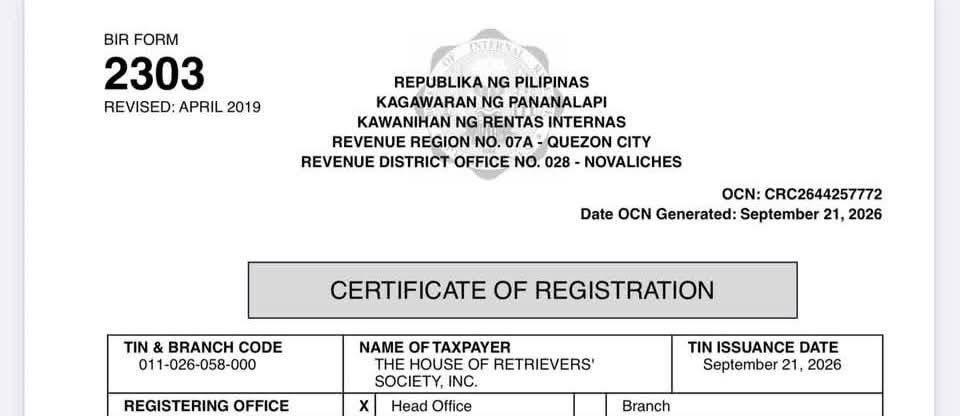
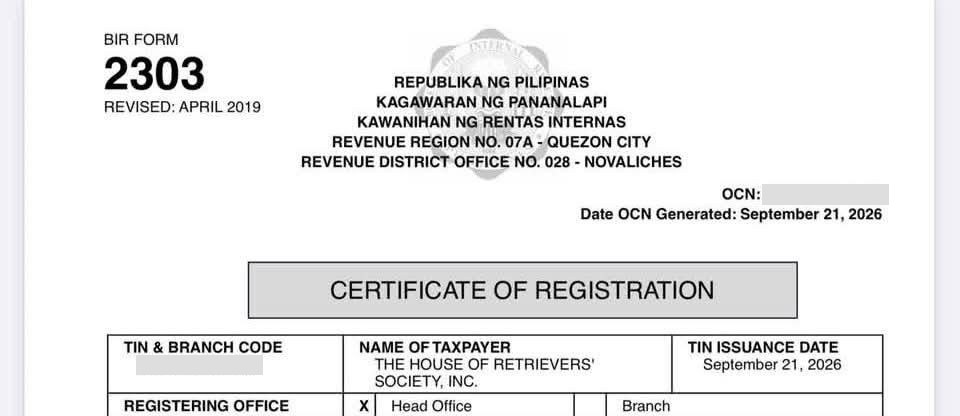
fix(site): full-number Copy, returning header, Coming up card, phone event page
- Copy puts the full payment number on the clipboard while the screen keeps
  it partly hidden; the payment step gets Copy buttons too.
- The header comes back pinned on scroll-up (home and events hosts); Join the
  pack is the gold pill, Support the pack a text link.
- A Coming up card under the home hero links the next event.
- Event pages lead with title, date and venue before the poster on phones.
- The SEC timeline photo has its TIN and OCN covered.

Claude-Session: https://claude.ai/code/session_0193V5bBPyj3yGbmkqaxNmq4

Changed region(s): [[0.7812, 0.4375, 0.9375, 0.5], [0.125, 0.8438, 0.2812, 0.9062]]

diff --git a/app/globals.css b/app/globals.css
@@ -721,7 +721,6 @@ main:focus { outline: none; }
 .live-row span { display: flex; align-items: center; gap: 10px; font-size: 15px; font-weight: 600; }
 .copy-button { min-height: 32px; padding: 4px 12px; border: 1px solid rgba(17,17,17,.3); border-radius: 999px; background: white; font-size: 12px; font-weight: 700; color: var(--ink); }
 .live-updated { margin-top: 10px !important; grid-column: auto !important; }
-.live-hint { margin: 6px 0 0 !important; font-size: 13px; color: var(--muted-on-light, #5c5f57); }
 .live-save-qr { display: inline-flex; align-items: center; justify-self: start; width: fit-content; min-height: 36px; margin-top: 8px; text-decoration: none; }
 .live-empty { grid-template-columns: 1fr; }
 .event-rsvp { align-self: flex-start; }
@@ -1271,7 +1270,10 @@ body:has(.journey.is-horizontal) { overflow-x: clip; }
 @media (prefers-reduced-motion: reduce) { .event-rsvp-bar { transition: none; } }
 
 @container eventpage (min-width: 960px) {
-  .event-detail-grid { grid-template-columns: minmax(0, .88fr) minmax(0, 1fr); gap: 64px; align-items: start; }
+  .event-detail-grid { grid-template-columns: minmax(0, .88fr) minmax(0, 1fr); grid-template-areas: "media head" "media body"; grid-template-rows: auto 1fr; gap: 16px 64px; align-items: start; }
+  .event-detail-head { grid-area: head; }
+  .event-detail-media { grid-area: media; }
+  .event-detail-body { grid-area: body; }
   /* The poster stays beside the details as they scroll. */
   .event-detail-media { position: sticky; top: 24px; }
   .event-media-prev, .event-media-next { display: grid; }
@@ -1413,6 +1415,8 @@ body:has(.journey.is-horizontal) { overflow-x: clip; }
 .pay-link, .pass-link-button { justify-self: center; min-height: 44px; display: inline-flex; align-items: center; border: 0; background: none; color: var(--gold-on-light); font-weight: 700; font-size: 14px; text-decoration: underline; text-underline-offset: 3px; cursor: pointer; padding: 0; }
 .pay-form { gap: 12px; }
 .pay-form select { width: 100%; border: 1px solid var(--line); background: white; padding: 14px 15px; color: var(--ink); font: inherit; text-transform: none; letter-spacing: 0; }
+.pay-copy { display: flex; flex-wrap: wrap; gap: 8px; justify-content: center; }
+.pay-copy .copy-button { min-height: 44px; padding: 6px 14px; font-size: 13px; }
 .pay-hint, .pay-file { color: var(--muted-on-light); font-size: 12px; font-weight: 500; text-transform: none; letter-spacing: 0; }
 .pay-file { color: #2f5d3a; font-weight: 700; }
 .pay-upload input[type="file"] { padding: 12px 15px; font-size: 13px; border-style: dashed; }
@@ -2174,3 +2178,60 @@ main :is(.journey-story, .pillar-copy p, .join-grid p, .instagram-fallback p, .p
 }
 .not-found-actions { display: flex; flex-wrap: wrap; gap: 12px; margin-top: 32px; }
 .not-found-page .privacy-intro { border-bottom: 0; }
+
+/* ---------- Phone event page first screen (audit #6, 23 Nov 2026) ----------
+   Title, date and venue lead; the 4:5 poster follows, capped so the price card
+   is close behind it. */
+.event-detail-head { display: grid; gap: 10px; min-width: 0; }
+.event-detail-head .event-badges, .event-detail-head .event-category { margin: 0; }
+.event-detail-head .event-category { letter-spacing: .12em; }
+.event-head-when { margin: 2px 0 0; display: grid; gap: 6px; font-size: 16px; font-weight: 500; color: var(--ink); }
+.event-head-when span { display: inline-flex; align-items: flex-start; gap: 8px; }
+.event-head-when svg { flex: none; margin-top: 3px; color: var(--gold-on-light); }
+/* From 960 px the facts beside the poster say when and where in full. */
+@container eventpage (min-width: 960px) { .event-head-when { display: none; } }
+@container eventpage (max-width: 959px) {
+  .event-detail-wrap .event-detail-grid { gap: 20px; }
+  .event-detail-media .event-media { width: min(100%, calc(64svh * 4 / 5)); margin-inline: auto; }
+  /* The blurred band ends under the All events button, so the title sits on the light page. */
+  .event-detail-backdrop { height: 190px; }
+}
+
+/* ---------- Header that returns on scroll-up; Join leads (audit #3 and #5, 23 Nov 2026) ----------
+   useHeaderReturn adds .is-stuck once the hero has scrolled away and .is-shown
+   while the visitor scrolls up. Join the pack is the gold pill (the site's main
+   action); Support the pack is the quieter text link beside it. */
+.site-header.is-stuck { position: fixed; background: rgba(13,13,13,.94); border-bottom-color: rgba(255,255,255,.1); box-shadow: 0 10px 30px -18px rgba(0,0,0,.6); transform: translateY(-105%); transition: transform .28s cubic-bezier(.2,.7,.2,1); }
+.site-header.is-stuck.is-shown, .site-header.is-stuck:focus-within { transform: none; }
+@supports (backdrop-filter: blur(1px)) { .site-header.is-stuck { background: rgba(13,13,13,.86); backdrop-filter: blur(12px); } }
+.nav .nav-cta { min-height: 44px; padding: 0 20px; border: 0; border-radius: 999px; background: var(--gold); color: var(--ink); font-size: 14px; font-weight: 700; }
+.nav .nav-cta:hover { background: #b8944f; }
+.nav .nav-support { min-height: 44px; padding: 0; border: 0; border-radius: 0; background: transparent; color: white; font-size: 14px; font-weight: 500; opacity: .82; text-decoration: underline; text-decoration-color: rgba(255,255,255,.4); text-underline-offset: 6px; }
+.nav .nav-support:hover { opacity: 1; text-decoration-color: currentColor; }
+@media (max-width: 900px) {
+  .nav .nav-cta { order: -1; align-self: stretch; justify-content: center; min-height: 52px; font-size: 16px; }
+  .nav .nav-support { font-size: 16px; }
+}
+
+/* ---------- Coming up, under the home hero (audit #3, 23 Nov 2026) ---------- */
+.coming-up { background: var(--ink); color: white; padding: 20px clamp(24px, 5vw, 76px) 28px; }
+.coming-up-inner { max-width: 1180px; margin: 0 auto; display: flex; align-items: center; gap: 16px 28px; flex-wrap: wrap; }
+.coming-up-card { flex: 1 1 520px; min-width: 0; display: grid; grid-template-columns: auto minmax(0, 1fr) auto; align-items: center; gap: 18px; padding: 12px 20px 12px 12px; border: 1px solid rgba(255,255,255,.16); border-radius: 18px; background: rgba(255,255,255,.05); color: inherit; text-decoration: none; transition: background .2s, border-color .2s; }
+.coming-up-card:hover { background: rgba(255,255,255,.09); border-color: rgba(167,132,64,.7); }
+.coming-up-card:focus-visible { outline: 3px solid var(--gold); outline-offset: 3px; }
+.coming-up-card img { width: 72px; height: 90px; object-fit: cover; border-radius: 10px; background: #2a2926; }
+.coming-up-body { display: grid; gap: 4px; min-width: 0; }
+.coming-up-label { font-size: 12px; font-weight: 700; letter-spacing: .14em; text-transform: uppercase; color: var(--gold); }
+.coming-up-body strong { font: 400 clamp(22px, 2.4vw, 28px)/1.15 "DM Serif Display", serif; text-wrap: balance; }
+.coming-up-facts { display: flex; flex-wrap: wrap; gap: 4px 18px; font-size: 14px; color: rgba(255,255,255,.8); }
+.coming-up-facts > span { display: inline-flex; align-items: center; gap: 6px; }
+.coming-up-facts svg { color: var(--gold); }
+.coming-up-price { font-weight: 700; color: white; }
+.coming-up-go { display: inline-flex; align-items: center; gap: 8px; min-height: 44px; padding: 0 18px; border-radius: 999px; background: var(--gold); color: var(--ink); font-size: 14px; font-weight: 700; white-space: nowrap; }
+.coming-up-all { display: inline-flex; align-items: center; gap: 6px; min-height: 44px; color: white; font-size: 14px; font-weight: 600; text-decoration: underline; text-decoration-color: rgba(255,255,255,.4); text-underline-offset: 5px; }
+.coming-up-all:hover { text-decoration-color: currentColor; }
+@media (max-width: 680px) {
+  .coming-up-card { grid-template-columns: auto minmax(0, 1fr); padding: 12px; }
+  .coming-up-card img { width: 64px; height: 80px; }
+  .coming-up-go { grid-column: 1 / -1; justify-content: center; }
+}

diff --git a/app/components/EventsView.jsx b/app/components/EventsView.jsx
@@ -5,6 +5,7 @@ import PhotoCredits from "./PhotoCredits";
 import Icon from "./Icon";
 import { socialLinks } from "../lib/socials.mjs";
 import LogoMoments from "./LogoMoments";
+import useHeaderReturn from "./useHeaderReturn";
 import Footer from "./Footer";
 import { initialsOf, speakersTitle } from "../lib/eventSpeakers.mjs";
 import { partnerGroups, sponsorGroups } from "../lib/eventBrands.mjs";
@@ -633,15 +634,24 @@ export function EventDetail({ event: given, past, onRsvp, base, photos = [] }) {
     <article className="event-detail" aria-labelledby="event-title">
       <a className="event-back" href={base ? `${base}` : "/"}><Icon name="arrowLeft" /> All events</a>
       <div className="event-detail-grid">
-        <div className="event-detail-media">
-          {media.length > 0 && <EventMedia media={media} title={event.title} />}
-        </div>
-        <div className="event-detail-body">
+        {/* Title first in the page order, so a phone opens on what the event is,
+            when and where, with the poster under it (audit #6, 23 Nov 2026).
+            From 960 px the grid puts it beside the poster, above the facts. */}
+        <header className="event-detail-head">
           <p className="event-badges">
             <span className={`event-status status-${past ? "past" : event.status}`}>{past ? "Past event" : STATUS_LABELS[event.status]}</span>
           </p>
           {labels && <p className="event-category">{labels}</p>}
           <h1 id="event-title">{event.title}</h1>
+          <p className="event-head-when">
+            <span><Icon name="calendar" size={15} /> {formatWhen(event)}</span>
+            {(event.venue || event.city) && <span><Icon name="pin" size={15} /> {[event.venue, event.city].filter(Boolean).join(", ")}</span>}
+          </p>
+        </header>
+        <div className="event-detail-media">
+          {media.length > 0 && <EventMedia media={media} title={event.title} />}
+        </div>
+        <div className="event-detail-body">
           <DetailFacts event={event} past={past} />
           {!past && (event.cost || event.pricePending || canRsvp) && (
             <div className="event-action-card" ref={card}>
@@ -769,6 +779,7 @@ export default function EventsView({ upcoming, past, focus = null }) {
   const [joinOpen, setJoinOpen] = useState(false);
   const [interest, setInterest] = useState("Member");
   const [rsvpEvent, setRsvpEvent] = useState(null);
+  const headerClass = useHeaderReturn(menuOpen);
 
   useEffect(() => {
     document.body.style.overflow = joinOpen || rsvpEvent ? "hidden" : "";
@@ -796,7 +807,7 @@ export default function EventsView({ upcoming, past, focus = null }) {
     <>
       <a href="#main" className="skip-link">Skip to content</a>
 
-      <header className="site-header">
+      <header className={headerClass}>
         <a href={HOME_URL} className="brand" aria-label="House of Retrievers home">
           <span className="brand-logo-frame">
             <LogoMoments className="brand-logo" tone="dark" priority />

diff --git a/app/components/SupportModal.jsx b/app/components/SupportModal.jsx
@@ -1,27 +1,12 @@
 import { useEffect, useRef, useState } from "react";
 import Icon from "./Icon";
-import { isPartlyHidden } from "../lib/partlyHidden.mjs";
+import CopyButton from "./CopyButton";
 
 function formatUpdated(iso) {
   if (!iso) return "";
   return new Intl.DateTimeFormat("en-PH", { day: "numeric", month: "short", year: "numeric", timeZone: "Asia/Manila" }).format(new Date(iso));
 }
 
-function CopyButton({ value, label }) {
-  const [copied, setCopied] = useState(false);
-  return (
-    <button
-      type="button"
-      className="copy-button"
-      onClick={async () => {
-        try { await navigator.clipboard.writeText(value.replace(/\s+/g, "")); setCopied(true); setTimeout(() => setCopied(false), 2000); } catch { /* clipboard blocked: the value is on screen to copy by hand */ }
-      }}
-      aria-label={`Copy ${label}`}
-    >
-      {copied ? "Copied" : "Copy"}
-    </button>
-  );
-}
 
 /** Donation details an Owner approved in the admin. */
 function LiveDetails({ methods }) {
@@ -37,8 +22,8 @@ function LiveDetails({ methods }) {
   const d = method.details;
   const rows = [
     d.bankName && ["Bank", d.bankName],
-    d.number && ["Number", d.number],
-    d.accountNumber && ["Account number", d.accountNumber],
+    d.number && ["Number", d.number, method.copy?.number],
+    d.accountNumber && ["Account number", d.accountNumber, method.copy?.accountNumber],
     d.accountName && ["Account name", d.accountName],
   ].filter(Boolean);
   return (
@@ -52,10 +37,9 @@ function LiveDetails({ methods }) {
         {method.qrImage && <img className="live-qr" src={method.qrImage} alt={`${method.label} QR code for House of Retrievers`} width="160" height="160" />}
         <div className="account-details">
           <strong>{method.label}</strong>
-          {rows.map(([label, value]) => (
-            <div key={label} className="live-row"><small>{label}</small><span>{value}{label !== "Account name" && label !== "Bank" && !isPartlyHidden(value) && <CopyButton value={value} label={label.toLowerCase()} />}</span></div>
+          {rows.map(([label, value, copy]) => (
+            <div key={label} className="live-row"><small>{label}</small><span>{value}{label !== "Account name" && label !== "Bank" && <CopyButton value={copy || value} label={label.toLowerCase()} />}</span></div>
           ))}
-          {method.qrImage && rows.some(([, value]) => isPartlyHidden(value)) && <p className="live-hint">On your phone? Save the QR, then upload it in your {method.label} app.</p>}
           {method.qrImage && <a className="copy-button live-save-qr" href={method.qrImage} download={`HOR-${method.key}-QR.png`}>Save QR image</a>}
           {method.updatedAt && <p className="live-updated">Details updated {formatUpdated(method.updatedAt)}. Always check the account name before you send.</p>}
         </div>

diff --git a/app/components/ComingUp.jsx b/app/components/ComingUp.jsx
@@ -1,0 +1,36 @@
+import Icon from "./Icon";
+import { EVENTS_URL } from "../lib/eventsHost.mjs";
+import { formatWhen } from "../lib/share.mjs";
+
+/**
+ * The next event, right under the hero (audit #3, 23 Nov 2026). Before this the
+ * nearest open event was about 6,000 px down, at the end of the timeline.
+ * Shown only when there is an upcoming published event; the whole card is one
+ * link to its page on the events site, plus a link to the rest.
+ */
+export default function ComingUp({ event, more = 0 }) {
+  if (!event) return null;
+  const href = `${EVENTS_URL}/${event.slug}`;
+  const where = [event.venue, event.city].filter(Boolean).join(", ");
+  const price = event.pricePending ? "Price revealed when RSVPs open" : event.cost;
+  return (
+    <section className="coming-up" aria-labelledby="coming-up-title">
+      <div className="coming-up-inner">
+        <a className="coming-up-card" href={href}>
+          {event.image && <img src={event.image} alt="" width="96" height="120" loading="lazy" />}
+          <span className="coming-up-body">
+            <span className="coming-up-label" id="coming-up-title">Coming up</span>
+            <strong>{event.title}</strong>
+            <span className="coming-up-facts">
+              <span><Icon name="calendar" size={14} /> {formatWhen(event)}</span>
+              {where && <span><Icon name="pin" size={14} /> {where}</span>}
+              {price && <span className="coming-up-price">{price}</span>}
+            </span>
+          </span>
+          <span className="coming-up-go" aria-hidden="true">See the event <Icon name="arrow" size={16} /></span>
+        </a>
+        <a className="coming-up-all" href={EVENTS_URL}>{more > 0 ? `All events · ${more + 1} coming up` : "All events"} <Icon name="arrow" size={14} /></a>
+      </div>
+    </section>
+  );
+}

diff --git a/app/components/PayStep.jsx b/app/components/PayStep.jsx
@@ -5,7 +5,7 @@ import { resizeImage } from "../lib/resizeImage";
 import { PAY_METHODS, READABLE, parsePeso, ticketLine } from "../lib/eventPayments.mjs";
 import { PRIVACY_URL } from "../lib/siteSeo.mjs";
 import Icon from "./Icon";
-import { isPartlyHidden } from "../lib/partlyHidden.mjs";
+import CopyButton from "./CopyButton";
 
 const peso = (n) => `₱${Number(n).toLocaleString("en-PH")}`;
 
@@ -121,7 +121,12 @@ export default function PayStep({ code, ticketLabel, amount, methods: given, rea
               {shown.qrImage && <img src={shown.qrImage} alt={`${shown.label} QR code for ${shown.details.accountName || "House of Retrievers"}`} width="220" height="220" />}
               <strong>{shown.details.accountName}</strong>
               <span>{[shown.label, shown.details.number, shown.details.bankName, shown.details.accountNumber].filter(Boolean).join(" · ")}</span>
-              {shown.qrImage && (isPartlyHidden(shown.details.number) || isPartlyHidden(shown.details.accountNumber)) && <span className="pay-hint">On your phone? Save the QR, then upload it in your {shown.label} app.</span>}
+              {(shown.details.number || shown.details.accountNumber) && (
+                <span className="pay-copy">
+                  {shown.details.number && <CopyButton value={shown.copy?.number || shown.details.number} label={`${shown.label} number`} text="Copy number" />}
+                  {shown.details.accountNumber && <CopyButton value={shown.copy?.accountNumber || shown.details.accountNumber} label="account number" text="Copy account number" />}
+                </span>
+              )}
               {shown.qrImage && <a className="pay-link" href={shown.qrImage} download={`HOR-${shown.key}-QR.png`}>Save QR image</a>}
             </div>
           )}

diff --git a/app/components/useHeaderReturn.js b/app/components/useHeaderReturn.js
@@ -1,0 +1,40 @@
+"use client";
+
+import { useEffect, useState } from "react";
+
+/**
+ * The site header scrolls away with the hero, then slides back in at the top
+ * of the screen whenever the visitor scrolls up (audit #3, 23 Nov 2026), so
+ * Events and Join are one flick away anywhere on a long page. It stays pinned
+ * until the page is back at the top, where the normal header takes over in
+ * the same place, so nothing jumps. `keepShown` holds it while the phone menu
+ * is open; keyboard focus inside it also shows it (CSS :focus-within).
+ */
+export default function useHeaderReturn(keepShown = false) {
+  const [state, setState] = useState({ stuck: false, shown: false });
+  useEffect(() => {
+    let last = window.scrollY;
+    let frame = 0;
+    const update = () => {
+      frame = 0;
+      const y = window.scrollY;
+      const delta = y - last;
+      setState((s) => {
+        const stuck = s.stuck ? y > 2 : y > 320;
+        let shown = stuck && s.shown;
+        if (stuck && delta < -6) shown = true;
+        if (delta > 6) shown = false;
+        return s.stuck === stuck && s.shown === shown ? s : { stuck, shown };
+      });
+      if (Math.abs(delta) > 6) last = y;
+    };
+    const onScroll = () => { if (!frame) frame = requestAnimationFrame(update); };
+    update();
+    window.addEventListener("scroll", onScroll, { passive: true });
+    return () => {
+      window.removeEventListener("scroll", onScroll);
+      if (frame) cancelAnimationFrame(frame);
+    };
+  }, []);
+  return `site-header${state.stuck ? " is-stuck" : ""}${state.stuck && (state.shown || keepShown) ? " is-shown" : ""}`;
+}

diff --git a/app/components/HomePage.jsx b/app/components/HomePage.jsx
@@ -4,6 +4,7 @@ import { useCallback, useEffect, useRef, useState } from "react";
 import BrandTransition from "./BrandTransition";
 import Header from "./Header";
 import Hero from "./Hero";
+import ComingUp from "./ComingUp";
 import PurposeStories from "./PurposeStories";
 import Journey from "./Journey";
 import InstagramFeed from "./InstagramFeed";
@@ -17,7 +18,7 @@ import SupportModal from "./SupportModal";
 import ScrollProgress from "./ScrollProgress";
 
 /** The homepage. app/page.jsx (server) passes in the admin-set journey timeline settings. */
-export default function HomePage({ journeySettings, journeyStops }) {
+export default function HomePage({ journeySettings, journeyStops, nextEvent = null, moreEvents = 0 }) {
   const [packView, setPackView] = useState("impact");
   const [modalOpen, setModalOpen] = useState(false);
   const [supportOpen, setSupportOpen] = useState(false);
@@ -89,6 +90,7 @@ export default function HomePage({ journeySettings, journeyStops }) {
       <Header menuOpen={menuOpen} setMenuOpen={setMenuOpen} onJoin={openJoin} onSupport={() => { setMenuOpen(false); setSupportOpen(true); }} />
       <main id="main" tabIndex={-1}>
       <Hero onJoin={openJoin} />
+      <ComingUp event={nextEvent} more={moreEvents} />
       <PurposeStories />
       <Journey onJoin={openJoin} settings={journeySettings} stops={journeyStops} />
       <InstagramFeed />

diff --git a/app/page.jsx b/app/page.jsx
@@ -1,12 +1,19 @@
 import HomePage from "./components/HomePage";
 import { loadJourneySettings } from "./lib/journeySettingsStore";
 import { loadJourney } from "./lib/journeyStore";
+import { loadEvents } from "./lib/publicEvents";
+import { hasEnded } from "./lib/eventTime.mjs";
 
 // Saving in admin → Journey timeline refreshes this at once (revalidatePath("/")); this is the fallback.
 export const revalidate = 300;
 
 /** Reads the journey timeline settings and stops on the server, so the page never flashes the old layout. */
 export default async function Home() {
-  const [journeySettings, journeyStops] = await Promise.all([loadJourneySettings(), loadJourney()]);
-  return <HomePage journeySettings={journeySettings} journeyStops={journeyStops} />;
+  const [journeySettings, journeyStops, events] = await Promise.all([loadJourneySettings(), loadJourney(), loadEvents().catch(() => [])]);
+  // The Coming up card under the hero: the soonest event that hasn't ended.
+  const now = Date.now();
+  const upcoming = events
+    .filter((event) => !hasEnded(event, now) && event.status !== "cancelled")
+    .sort((a, b) => a.date.localeCompare(b.date) || (a.startTime || "").localeCompare(b.startTime || ""));
+  return <HomePage journeySettings={journeySettings} journeyStops={journeyStops} nextEvent={upcoming[0] || null} moreEvents={Math.max(0, upcoming.length - 1)} />;
 }

diff --git a/app/components/CopyButton.jsx b/app/components/CopyButton.jsx
@@ -1,0 +1,28 @@
+"use client";
+
+import { useState } from "react";
+
+/**
+ * Copies a payment number. `value` is what goes on the clipboard (the full
+ * number, even when the screen shows it partly hidden); spaces are dropped so
+ * banking apps accept the paste.
+ */
+export default function CopyButton({ value, label, text = "Copy" }) {
+  const [copied, setCopied] = useState(false);
+  return (
+    <button
+      type="button"
+      className="copy-button"
+      onClick={async () => {
+        try {
+          await navigator.clipboard.writeText(String(value).replace(/\s+/g, ""));
+          setCopied(true);
+          setTimeout(() => setCopied(false), 2000);
+        } catch { /* clipboard blocked: the number is on screen to type */ }
+      }}
+      aria-label={copied ? `Copied ${label}` : `Copy ${label}`}
+    >
+      {copied ? "Copied" : text}
+    </button>
+  );
+}

diff --git a/app/components/Header.jsx b/app/components/Header.jsx
@@ -1,10 +1,14 @@
+"use client";
+
 import Icon from "./Icon";
 import LogoMoments from "./LogoMoments";
 import { EVENTS_URL } from "../lib/eventsHost.mjs";
+import useHeaderReturn from "./useHeaderReturn";
 
 export default function Header({ menuOpen, setMenuOpen, onJoin, onSupport }) {
+  const headerClass = useHeaderReturn(menuOpen);
   return (
-    <header className="site-header">
+    <header className={headerClass}>
       <a href="#top" className="brand" aria-label="House of Retrievers home">
         <span className="brand-logo-frame">
           <LogoMoments className="brand-logo" tone="dark" priority />

diff --git a/CLAUDE.md b/CLAUDE.md
@@ -300,7 +300,7 @@ the sheet cell to it.
 - **Media hub refinements (12 Nov 2026, owner asked after a design critique):** a dark "press essentials" row of five links sits right under the hero (launch, fact sheet PDF, logos, photos, media contact). Stories are split on any line break (the editor saves single breaks, which used to run all three into the first card). Removed: the scroll fade-in on every section (text sat at 18% opacity while scrolling), the hero's duplicate "Paws for a Purpose" note, the 01–05 numbers on cards, the ↘ icons on download cards, and public internal notes ("final wording pending", "Completed activities are listed separately…"). Purpose to Connect reads "Friendships across dog communities." Small gold text on light backgrounds uses `--media-gold-text` `#7a5a1c` (about 5.6:1) instead of `#a78440` (about 3.1:1); labels are at least 12 px and card body text 15 px; section headings are smaller (max 64 px); text links and footer links are at least 44 px tall. The nav dock gains Press kit and marks the section in view (`aria-current`). The partnership pathways and the "Raise responsibly. Serve generously." quote are one borderless bento grid of rounded tiles (the quote is the sixth tile, gold-tinted; owner, 12 Nov 2026). **Bento pass (12 Nov 2026, owner):** across the whole hub, cards are rounded tiles (white on light sections, `#1b1b1b` on dark; `--media-tile`, `--media-radius` 18px, `--media-gap` 12px) separated by space; hairline dividers between cards, rows and sections were removed (the "Bento pass" block at the end of the media styles in `globals.css`). Kept on purpose: swatch outlines (a white swatch needs one), the Copy button and Draft tag outlines, the glass nav dock. **Photo viewer:** library photos open in a modal (`app/media/PhotoLightbox.jsx`, reusing the `.event-lightbox` styles) with previous/next, ← → keys, swipe, a counter, and the album name and photographer credit; it steps through that album only. Links marked `data-lightbox` (group = album URL) keep their href, so they still work without JavaScript. **Message box (12 Nov 2026, owner):** "Share a story idea", "Make a media inquiry", the essentials row's "Email us", "Start a partnership conversation", "Ask about media access" and the nav's "Contact media" open a message form (`app/media/MessageForm.jsx`, links marked `data-message="<type>"`, which keep their mailto for no-JS or Ctrl/⌘-click) with a type picker: Story idea, Media inquiry, Interview or media access, Partnership, Photo or logo request, Something else. `/api/media-message` (Join's spam guard: honeypot, fill time, rate limit) emails it through Resend to `houseofretrieversph@gmail.com` with reply-to set to the sender (`sendEmail` takes `replyTo`); rules and the email in `app/lib/mediaMessage.mjs` (tested). Nothing is stored. **Masthead centring:** the dogs fill only x 1.5–555.6 of the 1396-wide logo canvas, so `.media-brand` is sized to the dogs and the canvas overflows to the right; the letter-spaced org name gets matching left padding. Built-in defaults no longer repeat photos, and the third proof card is SEC registration instead of "PH". Published content in Admin → Media hub still overrides the defaults.
 
 - **Main site design review pass (16 Nov 2026, owner):** the "Main site design review pass" block at the end of `globals.css`. Headings in `main` balance and paragraphs avoid one-word last lines; short card copy (journey stories, pillars, pack cards) balances. Home page orphans 7 / 8 / 10 → 0 at 1440 / 768 / 375 px (events and privacy were already 0). Story pillar numbers sit 18–32 px above their label (were 62–108 px, reading as stray marks); pack card numbers are centred like the rest of the card; journey cards give the text 60% from 981 px (the story column was 176 px); the mission heading column is wider from 901 px so "A way to give back." fits one line; the final call to action is 26–44 px, one balanced line instead of a fixed break, and its button reads "Come join us" (sentence case like every other primary button). Under 560 px, `<br>` in section `h2`s is hidden and balance places the break, so headings with a fixed break carry a `{" "}` after it; the hero's three-line tagline keeps its breaks.
-- **Live site audit fixes (22 Nov 2026, owner approved the audit's first set):** the Support window shows **Copy** only for full numbers: a number Payment settings shows partly hidden (`isPartlyHidden` in `app/lib/partlyHidden.mjs`, tested in `auditFixes.test.mjs`) copied its dots, so it gets no Copy, and every method with a QR has **Save QR image** plus, when its number is hidden, "On your phone? Save the QR, then upload it in your … app." (the payment step `PayStep.jsx` says the same). An upcoming event with **Registration is open** off shows a note in its price card ("Registration isn't open on this page right now. Message us on Instagram…", `ClosedNote` in `EventsView.jsx`). A first-N tier whose sale period has ended reads only "Ended Nov 14", not "5 left · Ended Nov 14" (`toPublicEvent`). Form fields are 16 px under 760 px so iOS Safari doesn't zoom on tap ("Live site audit fixes" at the end of `globals.css`). The RSVP's limit note starts with a capital. `app/not-found.jsx` is a branded 404 for every host (logo, See upcoming events, Go to the home page). The footer links Events beside Privacy notice and Media kit; the Pack support card names GCash, GoTyme or bank transfer (PayMongo was never offered); the first two upcoming posters on the events list load eagerly; journey photo dots are 24 px. Still to design: a header that returns on scroll-up with a Coming up strip, Join as the main header button, and the phone event page's first screen.
+- **Live site audit fixes (22 Nov 2026, owner approved the audit's first set):** the Support window's **Copy** puts the full number on the clipboard even when Payment settings shows it partly hidden (owner, 23 Nov 2026: `publicMethods` adds `copy: {number, accountNumber}` with the digits, `CopyButton.jsx` copies `copy` over the shown text; the mask keeps the number off screenshots and the page text, not out of the browser), every method with a QR has **Save QR image**, and the payment step (`PayStep.jsx`) has Copy number / Copy account number too. An upcoming event with **Registration is open** off shows a note in its price card ("Registration isn't open on this page right now. Message us on Instagram…", `ClosedNote` in `EventsView.jsx`). A first-N tier whose sale period has ended reads only "Ended Nov 14", not "5 left · Ended Nov 14" (`toPublicEvent`). Form fields are 16 px under 760 px so iOS Safari doesn't zoom on tap ("Live site audit fixes" at the end of `globals.css`). The RSVP's limit note starts with a capital. `app/not-found.jsx` is a branded 404 for every host (logo, See upcoming events, Go to the home page). The footer links Events beside Privacy notice and Media kit; the Pack support card names GCash, GoTyme or bank transfer (PayMongo was never offered); the first two upcoming posters on the events list load eagerly; journey photo dots are 24 px. **Second round (23 Nov 2026, owner: "suggest based on your expertise"; no Figma):** the header on the home page and events host (`useHeaderReturn.js`) scrolls away with the hero, then comes back pinned (dark, blurred) whenever the visitor scrolls up, until the page is back at the top; focus inside it or the open phone menu keeps it shown. **Join the pack** is the gold pill in the nav (first in the phone menu) and **Support the pack** a text link. The home page has a **Coming up** card under the hero (`ComingUp.jsx`; `app/page.jsx` passes the soonest event not ended or cancelled, with a count for All events; nothing shows without one). The event page leads with `.event-detail-head` (status, category, title, a date · time and venue line) before the poster in page order; from 960 px grid areas put it beside the poster and hide that line (the facts say it); under 960 px the poster is capped at 64svh tall and the blurred band ends under All events so the title sits on the light page. The "Registered with the SEC" timeline photo (`public/journey/sec-registration/1.jpg`, a BIR 2303) has its TIN and OCN covered.
 - **Icons are lucide (16 Nov 2026, owner):** every icon on the public site, events, media hub and admin comes from `app/components/Icon.jsx` (`<Icon name="external" />`), which maps names to `lucide-react` (arrow, arrowLeft/Up/Down, external, chevronLeft/Right/Up/Down, calendar, check, close, download, edit, flip, heart, menu, parking, paw, pin, play, share, sparkle, star, warning). It replaced the hand-drawn SVG paths and ~105 text symbols (↗ ← ‹ › ✕ ✓ ✎ ▶ ↻ ✦ ★ ⚠, ↑ ↓ on move buttons). Icons are decorative (`aria-hidden`) unless they are the only signal: pass `label` (e.g. the send window's "No email address" and "Wording edited" markers) for `role="img"`. Default size is 1em with `.icon` aligned to the text baseline in `globals.css`; flex links use a gap. Arrows that are prose stay text ("File → Download", "Inquiry → Talking → Confirmed", before → after in confirm dialogs), as do emails, PDFs and plain-text strings, × in amounts, • bullets and the 🌈 rainbow-bridge marker. `app/lib/iconGlyphs.test.mjs` fails on a text icon in JSX or an `<Icon name>` missing from the map.
 - **External links open in a new tab (16 Nov 2026, owner):** any link to another website gets `target="_blank" rel="noopener noreferrer"` (or `rel="noreferrer"`), including links in Media hub rich text (`safeRichHtml` adds it to http(s) links) and the media hub's file links that open in the browser (fact sheet PDF). Links between HoR's own hosts (www, events, media) that are site navigation stay in the same tab. `app/lib/externalLinks.test.mjs` fails on a written-out https link without it; links built from data (`href={x.url}`) are checked by hand.
 - Story media lives in per-section folders under `public/`: `1-purpaws/`, `2-better/`, `3-giveback/`.
